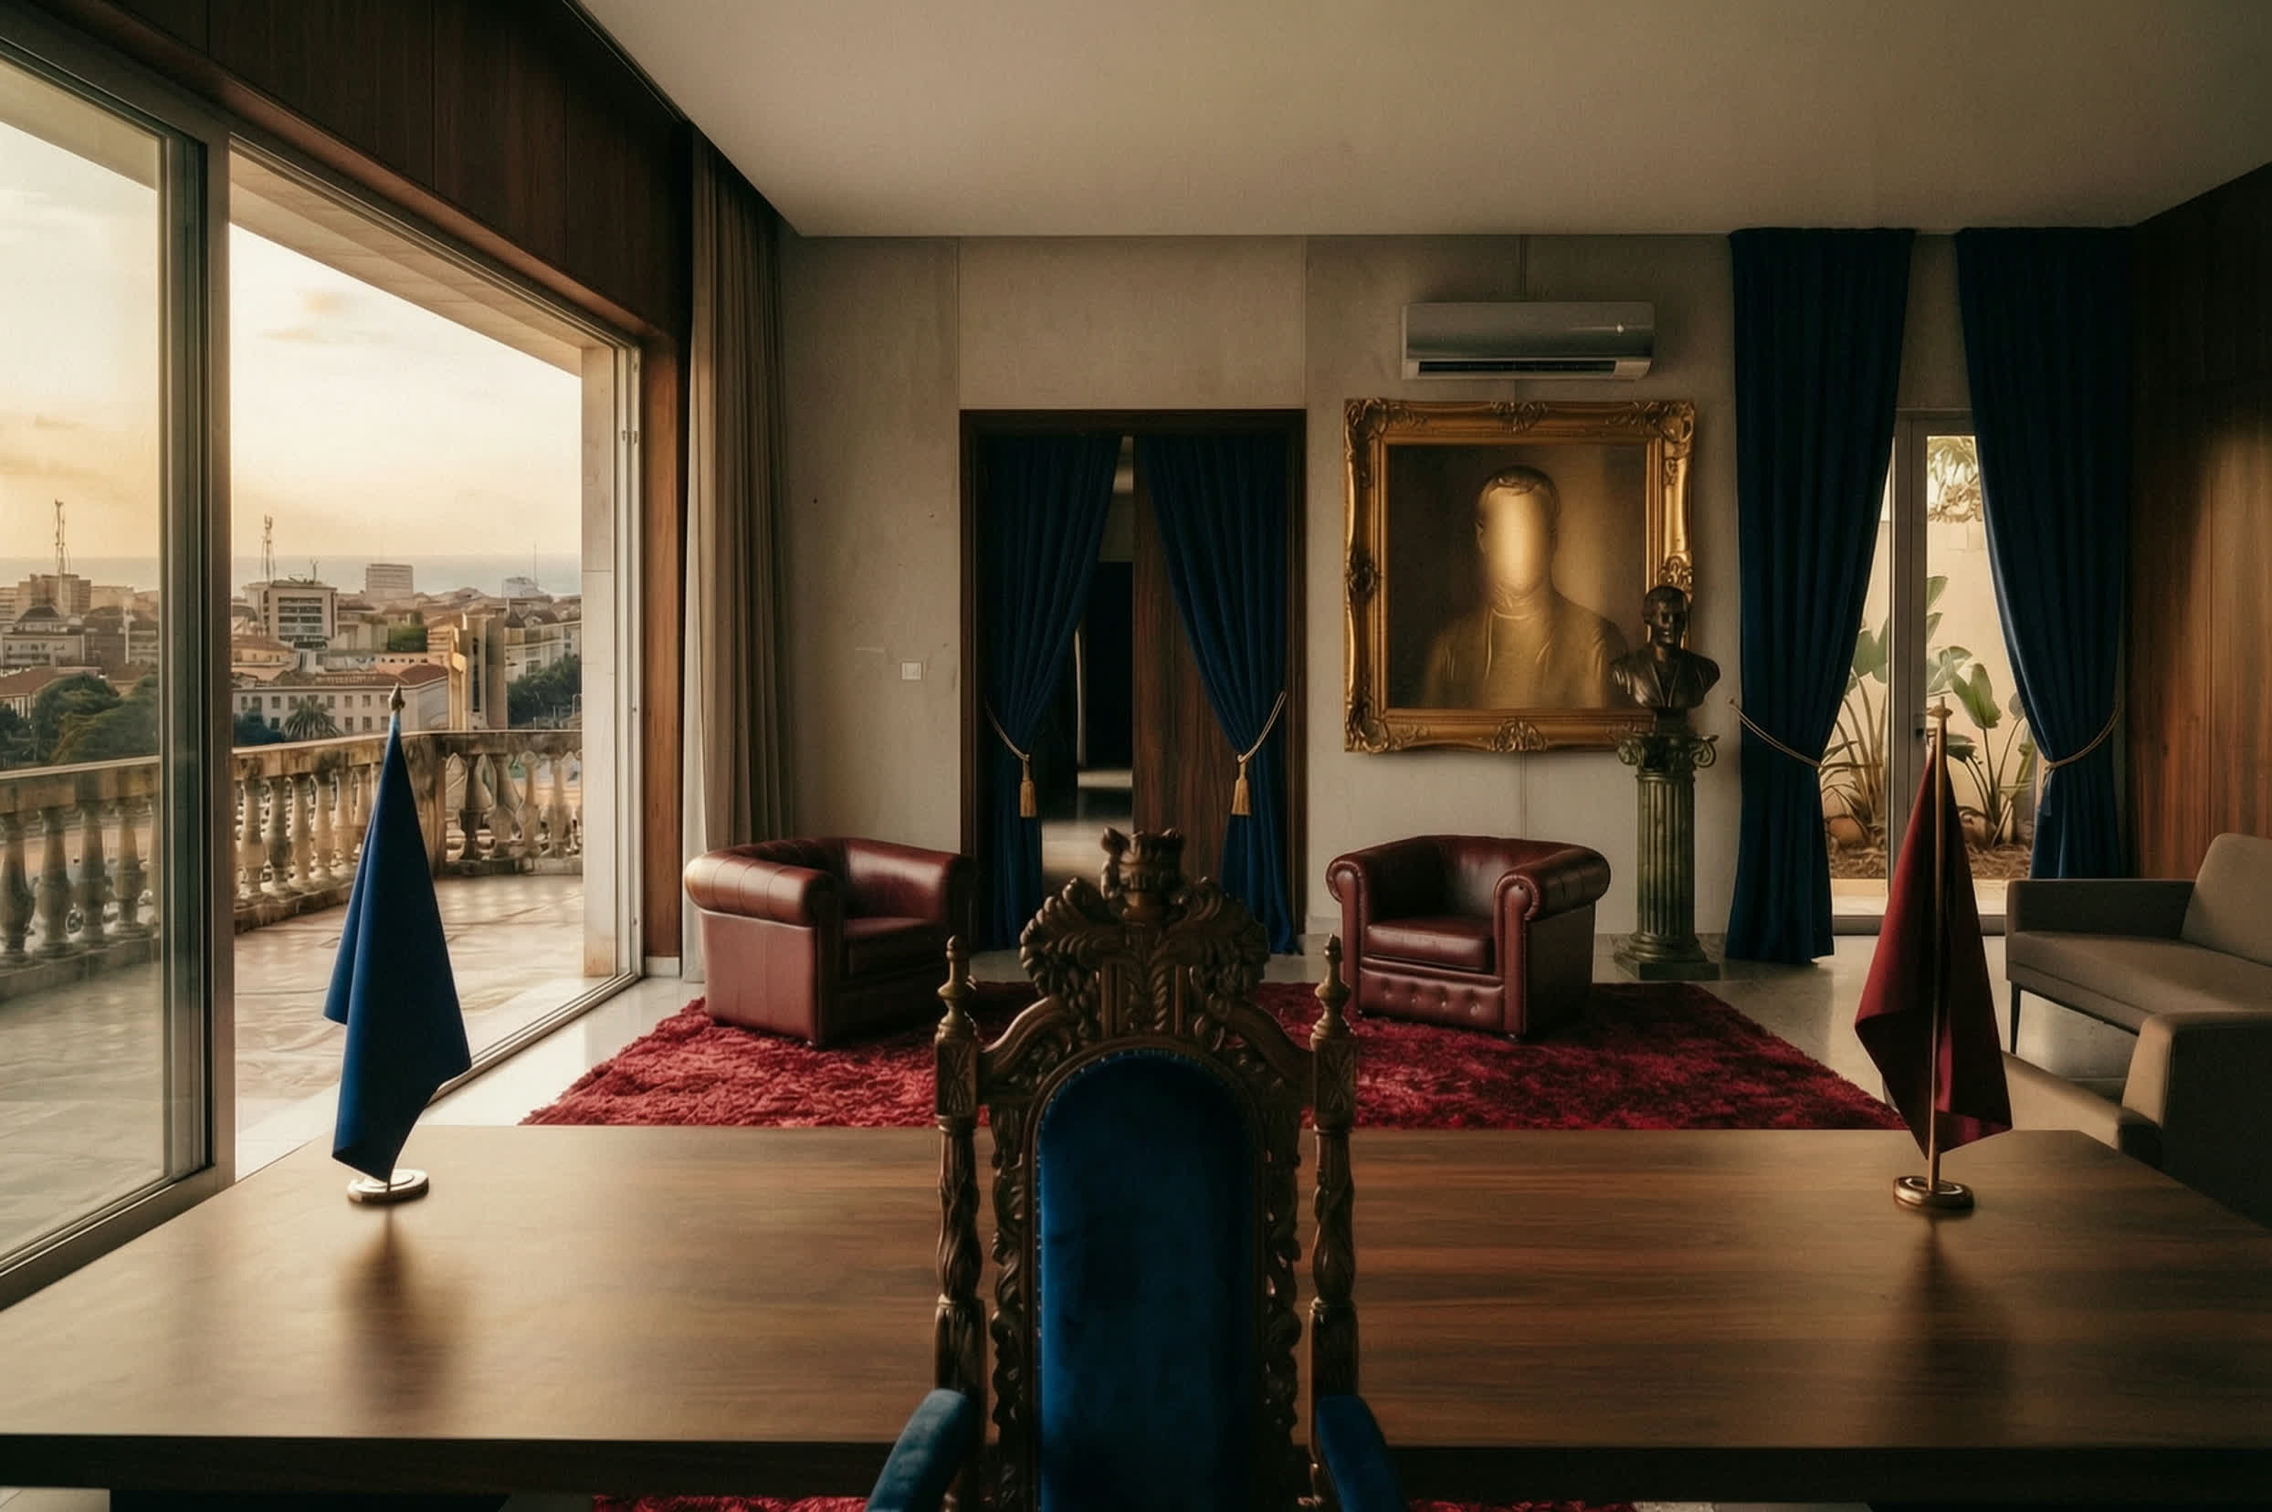
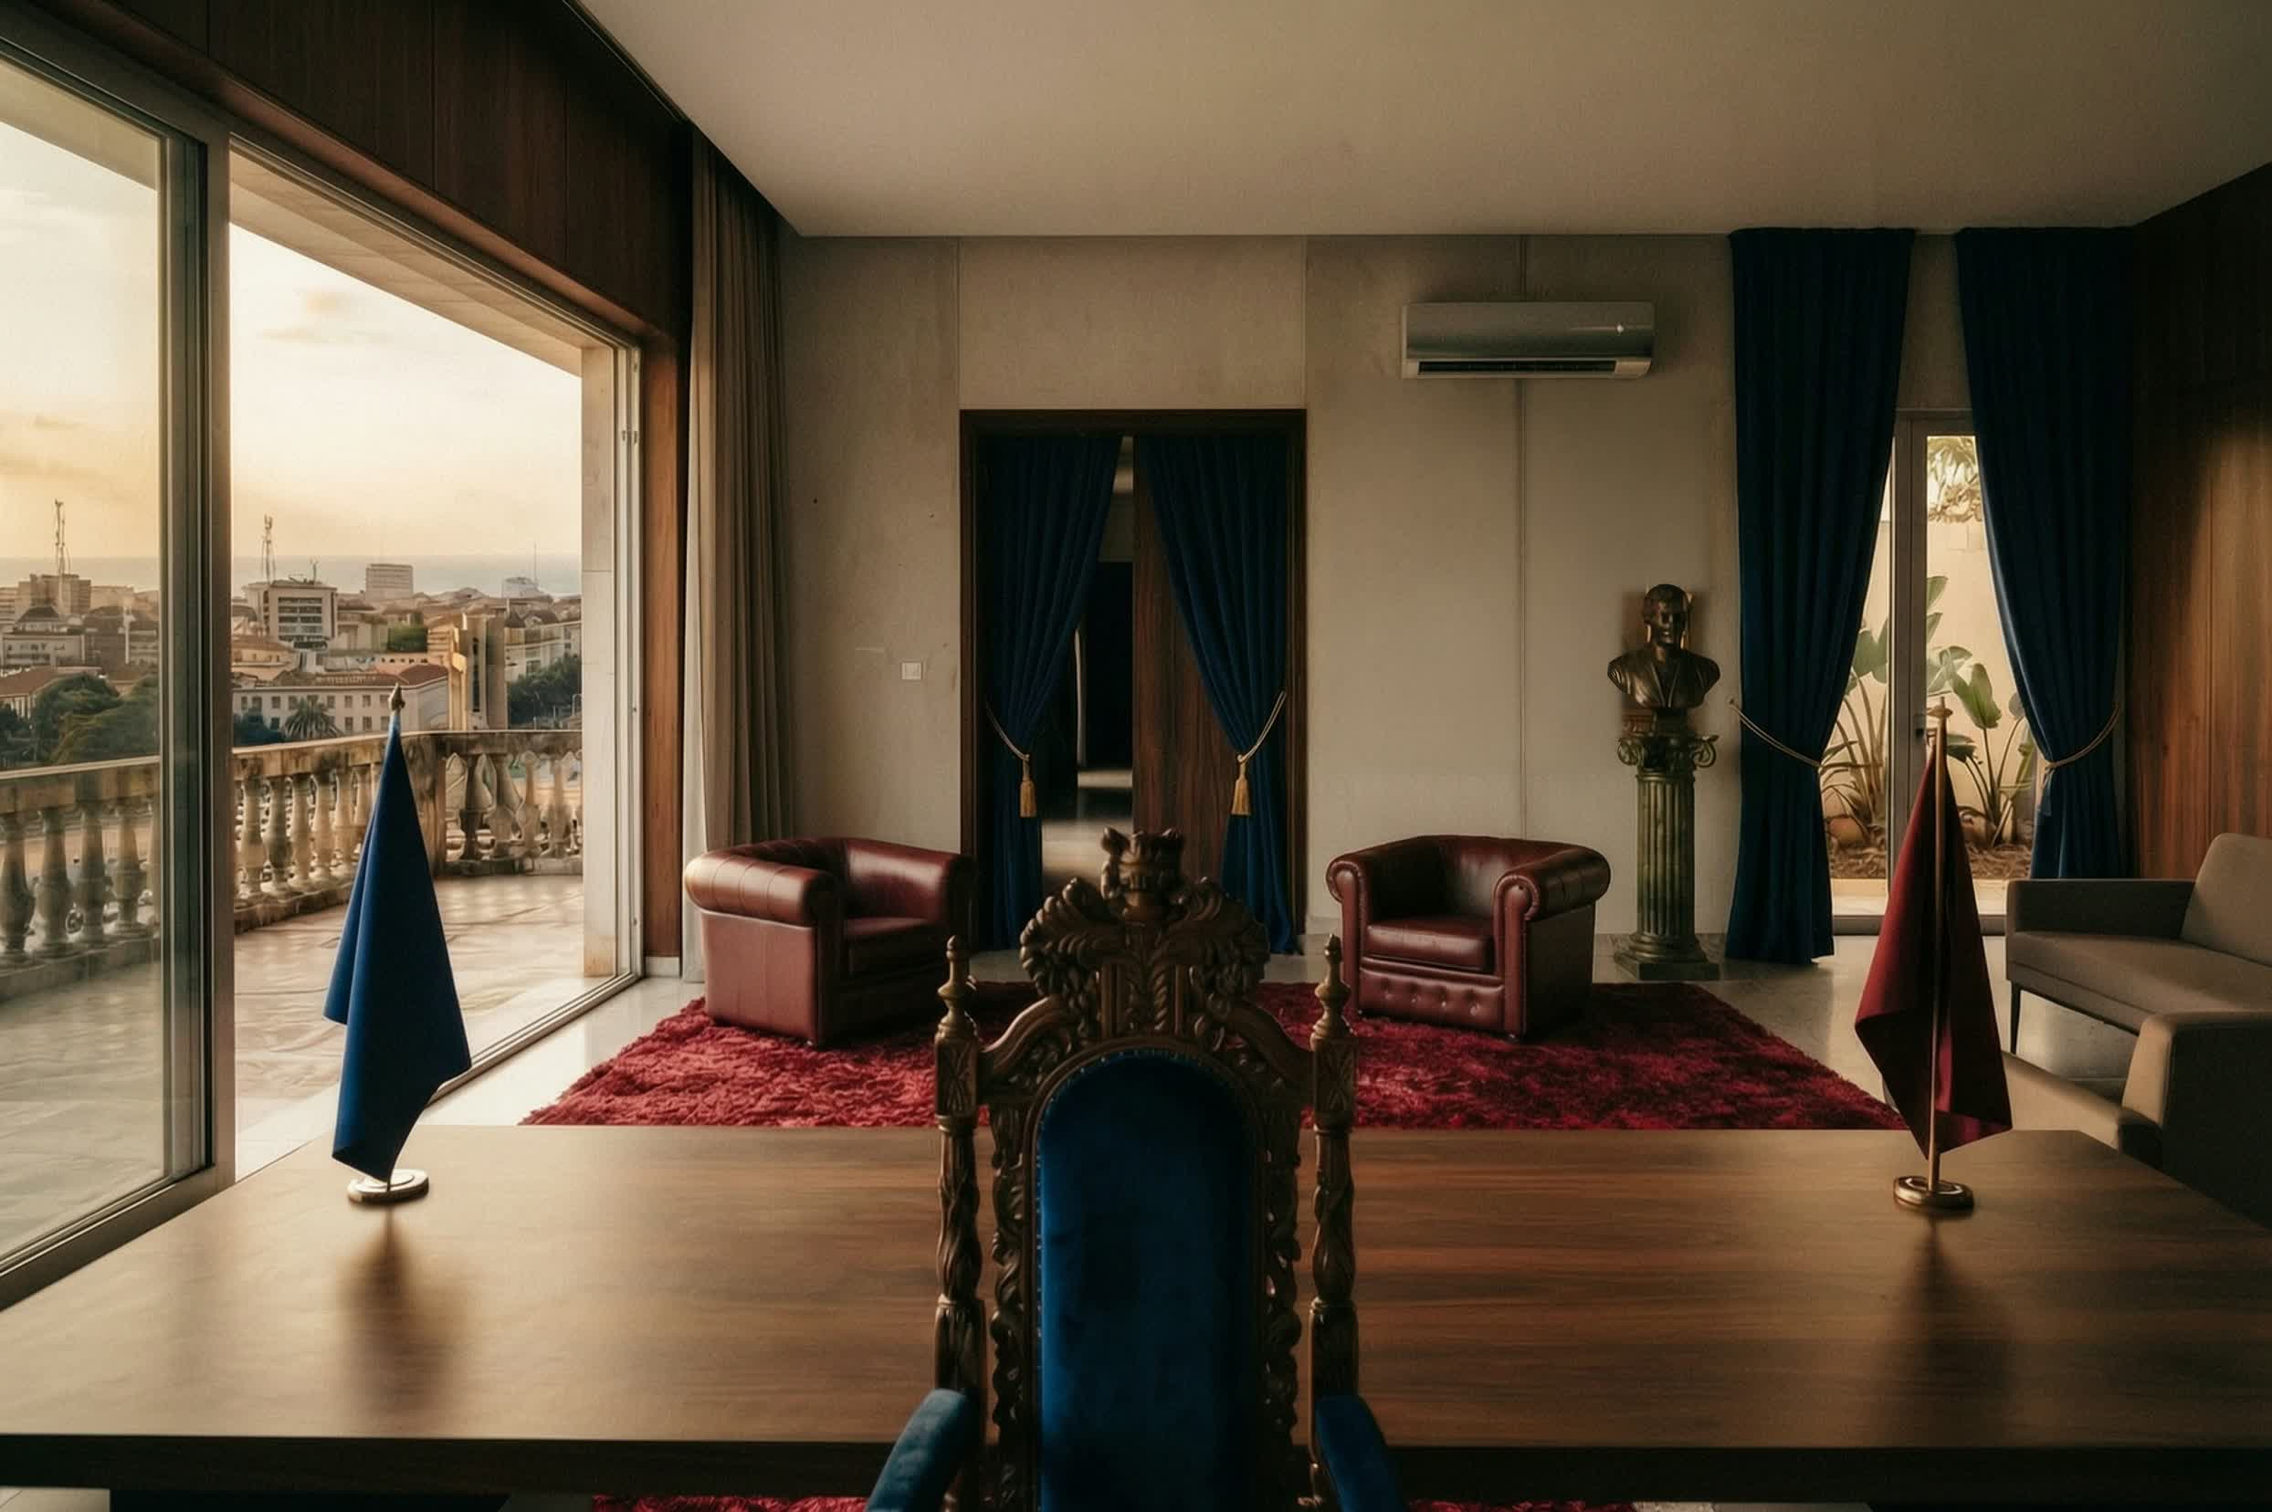
La carte remonte a droite de la porte, et le mur a ete libere pour elle
Elle passe de 0,070 a 0,122 de plaque — presque le double — et retrouve le
pan de mur sous le climatiseur, borne par le chambranle du couloir a
gauche, le buste du palais du chef a droite et l imprimante du bureau
ordinaire en bas.

Ce mur n etait libre que dans deux plaques sur quatre. Les quatre plaques
concernees ont donc ete retouchees — palais du chef et bureau enseveli,
de jour et de nuit : le portrait dore et le panneau punaisé ont ete
retires, le buste et sa colonne gardes.

Retouche faite au rectangle, pas a la plaque : le pan de mur a ete
decoupe, repeint, puis recolle dans l image d origine avec un fondu de
six pixels. Tout le reste de chaque fichier est l original intact, donc
le cadrage partage par les quatre etats n a pas bouge.

430 tests verts, analyse sans remarque.

Changed region(s): [[0.588, 0.2464, 0.7737, 0.5236]]

diff --git a/lib/moteur/decor.dart b/lib/moteur/decor.dart
@@ -442,21 +442,21 @@ List<Passage> passagesDe(Piece piece) => switch (piece) {
       Piece.balcon => const [],
     };
 
-/// La carte du pays, accrochée au mur du bureau à gauche de la porte du
-/// couloir. Elle montre le pays de jour ou de nuit, et s'ouvre en grand
-/// quand on la touche.
+/// La carte du pays, accrochée au mur du bureau à droite de la porte du
+/// couloir, sous le climatiseur. Elle montre le pays de jour ou de nuit,
+/// et s'ouvre en grand quand on la touche.
 ///
 /// Les deux fractions sont égales parce que la plaque fait 2488 × 1656 :
 /// une zone carrée en fractions rend un rectangle de trois sur deux, qui
 /// est exactement le format de la carte. Y toucher la déforme.
 ///
-/// C'est le troisième endroit essayé, et le premier qui tienne dans les
-/// quatre états. À x = 0,30 elle était à cheval sur le rideau et le
-/// chambranle ; sous le climatiseur elle tombait en plein sur le portrait
-/// doré du palais du chef, et sur le panneau punaisé du bureau enseveli.
-/// Ce pan de mur-ci est nu dans les quatre plaques, au-dessus du chevalet
-/// de la porte ouverte et des cartons de l'enseveli.
-const Zone ecranDuBureau = Zone(0.350, 0.285, 0.070, 0.070);
+/// Le rectangle tient dans le plus petit mur libre des quatre plaques :
+/// le chambranle du couloir le borne à gauche, le climatiseur en haut, le
+/// buste du palais du chef à droite, et l'imprimante du bureau ordinaire
+/// en bas. Ce mur ne s'est libéré que le 30 octobre 2026, quand le
+/// portrait doré du chef et le panneau punaisé de l'enseveli ont été
+/// retirés de leurs plaques, de jour comme de nuit.
+const Zone ecranDuBureau = Zone(0.588, 0.288, 0.122, 0.122);
 
 /// L'écran de la pièce, ou null : le bureau seul en a un.
 Zone? ecranDe(Piece piece) => piece == Piece.bureau ? ecranDuBureau : null;

diff --git a/outils/placer_zones.html b/outils/placer_zones.html
@@ -116,9 +116,9 @@ const DEPOT = {
       ['piscine', 'Le jardin', [0.762, 0.250, 0.168, 0.400]],
     ],
     // La carte du mur : une seule pour les quatre états, comme les
-    // ouvertures. Le pan de mur à gauche de la porte est nu dans les quatre
-    // plaques — c'est ce qui permet de n'en garder qu'une.
-    ecran: [0.350, 0.285, 0.070, 0.070],
+    // ouvertures. Le pan de mur à droite de la porte, sous le climatiseur,
+    // a été libéré dans les quatre plaques le 30 octobre 2026.
+    ecran: [0.588, 0.288, 0.122, 0.122],
   },
   piscine: {
     nom: 'La piscine',

diff --git a/docs/INFRA.md b/docs/INFRA.md
@@ -23,7 +23,7 @@ Mis à jour le 30 octobre 2026 d'après le dépôt et la page en ligne. Pour met
 - **Plateforme** : application mobile iOS et Android, un seul code source Flutter. Les deux dossiers natifs existent dans le dépôt (`ios/`, `android/`), aucune cible web, macOS, Windows ou Linux.
 - **Stack** : Flutter épinglé à la version **3.47.3** (canal stable) aux deux endroits qui construisent — `.github/workflows/ci.yml` et `ios/ci_scripts/ci_post_clone.sh`. SDK Dart `^3.13.0` (`pubspec.yaml`). Trois dépendances seulement : `flutter_riverpod ^3.0.0` (état), `shared_preferences ^2.3.0` (sauvegarde locale), `audioplayers ^6.1.0` (son). En développement : `flutter_lints ^5.0.0`, `flutter_launcher_icons ^0.14.0`. iOS cible **15.0** minimum, Java et Kotlin en **17** côté Android.
 - **Backend** : **aucun**. Aucun client réseau n'est déclaré dans `pubspec.yaml` (ni `http`, ni `dio`, ni Firebase, ni Supabase) et aucun appel réseau n'existe dans `lib/`. Tout le contenu du jeu est embarqué : **8 fichiers JSON, 612 Ko**, dans `assets/contenu/` (`cartes.json`, `personnages.json`, `parcours.json`, `fins.json`, `exploits.json`, `objets.json`, `adversaires.json`, `chambre.json`). La sauvegarde passe par `shared_preferences`, sur l'appareil — le commentaire d'en-tête de `lib/sauvegarde/sauvegarde.dart` le dit explicitement : « Rien ne part sur le réseau. » Quatre clés : `partie_en_cours`, `progression`, `intro_vue`, `geste_appris`. Le `AndroidManifest.xml` ne déclare **aucune permission**.
-- **Distribution** : dépôt GitHub `teiki5320/palabre` (branche `main`). iOS par **Xcode Cloud** — le script `ios/ci_scripts/ci_post_clone.sh` installe Flutter, fait `pub get`, `flutter build ios --release --no-codesign --config-only` puis `pod install` ; depuis le 30 octobre 2026 chaque étape longue écrit une ligne par minute, pour que le service ne coupe plus un script muet. Android : pas d'automatisation, mais la signature de publication est câblée — `android/app/build.gradle.kts` lit `android/key.properties` s'il existe et retombe sur la clé de debug sinon, pour que l'intégration continue et `flutter run --release` continuent de marcher sans la clé. Version commune **0.33.0+1** (`pubspec.yaml`).
+- **Distribution** : dépôt GitHub `teiki5320/palabre` (branche `main`). iOS par **Xcode Cloud** — le script `ios/ci_scripts/ci_post_clone.sh` installe Flutter, fait `pub get`, `flutter build ios --release --no-codesign --config-only` puis `pod install` ; depuis le 30 octobre 2026 chaque étape longue écrit une ligne par minute, pour que le service ne coupe plus un script muet. Android : pas d'automatisation, mais la signature de publication est câblée — `android/app/build.gradle.kts` lit `android/key.properties` s'il existe et retombe sur la clé de debug sinon, pour que l'intégration continue et `flutter run --release` continuent de marcher sans la clé. Version commune **0.34.0+1** (`pubspec.yaml`).
 - **Site** : la politique de confidentialité, `docs/confidentialite.html`, est publiée par **GitHub Pages** et répond sur <https://palabre.toakeur.com/confidentialite.html>. La racine <https://palabre.toakeur.com/> sert une page d'accueil, `docs/index.html` : ce qu'est le jeu, cinq captures, les chiffres du contenu, et le fait qu'il n'est publié nulle part. Les deux pages répondent (vérifié le 30 octobre 2026) et affichent le contact `palabre@toakeur.com`. Les images web vivent dans `docs/site/` (412 Ko en tout). Les deux pages chargent leurs polices depuis Google Fonts (`fonts.googleapis.com`) : c'est la seule ressource extérieure du site.
 - **IA et outils** : les portraits et décors sont générés sur **OpenArt**, modèle `nano-banana-2-lite`, format 3:4 — la recette est écrite dans `docs/superpowers/specs/2026-09-16-president-100-jours-design.md`. `assets/images/` pèse **51 Mo**, `assets/` **58 Mo** au total (83 et 89 Mo jusqu'à la recompression du 30 octobre 2026, qui n'a touché ni les dimensions ni le cadrage). Les 16 sons de `assets/sons/` sont dans le dépôt mais **aucun outil de production sonore n'y est référencé** : à vérifier hors dépôt. Une douzaine d'outils d'atelier vivent dans `outils/` (Python et Dart) : `audit_cartes.py` (contrôles que le moteur ne peut pas faire), `planche_jeu.py`, `planche_relecture.py`, `planche_romances.py`, `planche_palais.py`, `mesure_par_histoire.dart`. Ils ne sont pas embarqués dans l'application.
 - **Particularités du jeu** : quatre jauges — **peuple, armée, caisses, presse** — qui partent à 50 et tuent **à 0 comme à 100** (`lib/moteur/denouement.dart`, `evalue`). Une carte par jour, glissée à gauche ou à droite. Le mandat dure **100 jours** (`const int dureeMandat = 100`) et se termine par une élection que l'on gagne si la moyenne peuple/presse dépasse la force de l'opposition — laquelle part de 50 et monte de ce qu'on a perdu. Le jour et la nuit alternent **toutes les 10 cartes** (`cartesParDemiJournee`), ce qui donne cinq nuits par mandat. Le contenu compte **687 cartes**, **59 histoires à plusieurs cartes**, 15 personnages, 10 parcours de départ, 14 fins, 10 exploits, 24 objets de palais achetables en points de caisses, 5 adversaires d'élection. Une romance à six crans (`lib/moteur/romance.dart`) ne progresse **que** si une réponse la déclare. Le palais est visitable entre deux cartes et ne coûte pas un jour. `outils/planche_relecture.py` fabrique une page HTML de relecture carte par carte. Le dépôt contient **423 blocs de test** sous `test/`.

diff --git a/docs/PUBLICATION.md b/docs/PUBLICATION.md
@@ -6,7 +6,7 @@
 
 ## En bref
 
-- **Version commune** : 0.33.0+1 (`pubspec.yaml`)
+- **Version commune** : 0.34.0+1 (`pubspec.yaml`)
 - **Identifiant de bundle** : `sn.palabre.app`, iOS et Android
 - **Monétisation** : aucune — ni pub, ni achat intégré
 - **Confidentialité** : aucune donnée collectée, politique en ligne
@@ -32,7 +32,7 @@
 
 - **iOS** : la chaîne de construction existe et fonctionne — Xcode Cloud est câblé par `ios/ci_scripts/ci_post_clone.sh`, la signature est déléguée au service, l'équipe et l'identifiant de bundle sont renseignés dans le projet Xcode. Preuve sur GitHub : le flux Xcode Cloud « palabre-testflight » a réussi son archive iOS du 13 au 27 octobre 2026, puis de nouveau le 29 octobre (build 173, mail d'Apple du 29 octobre), sans étape TestFlight ; seule la build 172 du 28 octobre avait échoué, le script `ci_post_clone.sh` ayant dépassé le délai de 15 minutes sans rien écrire. Le dépôt ne montre **aucune trace de soumission** : ni version publiée, ni numéro de build TestFlight, ni fiche. Les builds n'arrivent pas seules dans TestFlight : l'envoi est manuel, fait par Jean (aucune build sur TestFlight au 30 octobre 2026, aucun mail TestFlight — vérifié dans Gmail le 30 octobre). État de la fiche : à vérifier dans la console.
 - **Android** : la signature de publication est **câblée et vérifiée**. `android/app/build.gradle.kts` lit `android/key.properties` quand ce fichier existe et signe la variante `release` avec ; sans lui — intégration continue, machine neuve — il retombe sur la clé de debug pour que `flutter run --release` continue de marcher. Vérifié de bout en bout avec un keystore jetable : l'APK produit portait bien le certificat de cette clé, pas celui de debug. Aucune trace de la vraie clé de publication pour l'instant — à vérifier hors dépôt. Le bundle pèse **109,3 Mo** pour une limite de 150 Mo sur le module de base (mesuré le 30 octobre 2026) : la marge est de quarante mégaoctets. Il en faisait 143,3 jusqu'à la recompression des images du 30 octobre.
-- **Version commune** : **0.33.0+1** (`pubspec.yaml`). Les deux plateformes en dépendent : iOS lit `FLUTTER_BUILD_NAME` et `FLUTTER_BUILD_NUMBER`, Android lit `flutter.versionName` et `flutter.versionCode`. Une seule ligne à changer pour les deux.
+- **Version commune** : **0.34.0+1** (`pubspec.yaml`). Les deux plateformes en dépendent : iOS lit `FLUTTER_BUILD_NAME` et `FLUTTER_BUILD_NUMBER`, Android lit `flutter.versionName` et `flutter.versionCode`. Une seule ligne à changer pour les deux.
 - **Identifiant de bundle** : **`sn.palabre.app`**, identique des deux côtés — `PRODUCT_BUNDLE_IDENTIFIER` dans `ios/Runner.xcodeproj/project.pbxproj`, `applicationId` dans `android/app/build.gradle.kts`. Le `namespace` Android, `sn.palabre.president`, est interne au code Kotlin et n'a aucun effet sur la boutique. Nom affiché des deux côtés : **« Palabre »**.
 - **Monétisation** : **aucune**. Ni SDK publicitaire, ni achat intégré, ni abonnement dans `pubspec.yaml` ou dans `lib/`. L'application ne fait aucun appel réseau et ne déclare aucune permission Android. C'est la réponse la plus simple possible aux questionnaires de confidentialité des deux boutiques : aucune donnée collectée.
 - **Confidentialité** : la politique est en ligne sur <https://palabre.toakeur.com/confidentialite.html> (GitHub Pages derrière Cloudflare, vérifié le 30 octobre 2026), contact `palabre@toakeur.com`. La racine <https://palabre.toakeur.com/> sert une page d'accueil en ligne depuis le 12 octobre 2026, qui porte la même adresse de contact : c'est l'adresse de site et d'assistance prévue pour les deux fiches.
@@ -44,7 +44,7 @@
 |---|---|
 | **État** | Fiche créée (identifiant Apple `6811035059`), chaîne de construction qui archive, aucune soumission |
 | **Console** | https://appstoreconnect.apple.com |
-| **Version dans le dépôt** | 0.33.0+1 (`pubspec.yaml`) |
+| **Version dans le dépôt** | 0.34.0+1 (`pubspec.yaml`) |
 | **Version en ligne** | à vérifier dans la console |
 | **Identifiant de l'application** | `6811035059` (relevé le 30 octobre 2026) |
 | **Identifiant de bundle** | `sn.palabre.app` |
@@ -65,7 +65,7 @@
 |---|---|
 | **État** | Signature câblée et vérifiée ; aucune soumission — à vérifier dans la console |
 | **Console** | https://play.google.com/console |
-| **Version dans le dépôt** | 0.33.0+1 (`pubspec.yaml`) |
+| **Version dans le dépôt** | 0.34.0+1 (`pubspec.yaml`) |
 | **Version en ligne** | à vérifier dans la console |
 | **Identifiant d'application** | `sn.palabre.app` |
 | **Espace de noms** | `sn.palabre.president` |
